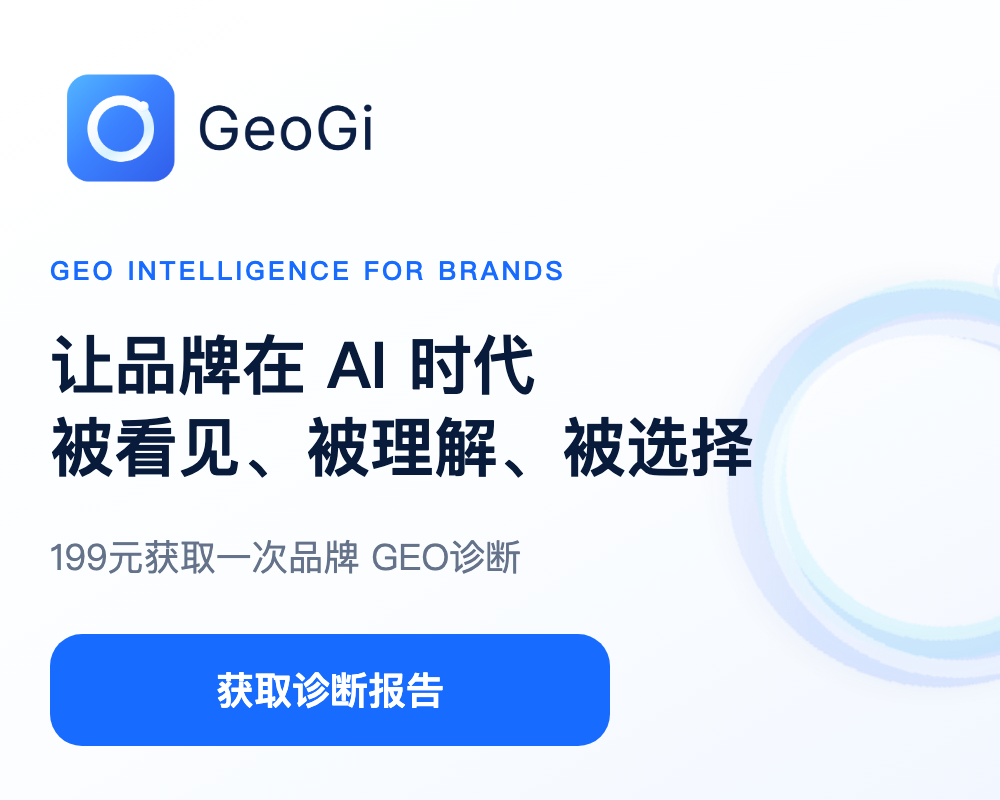
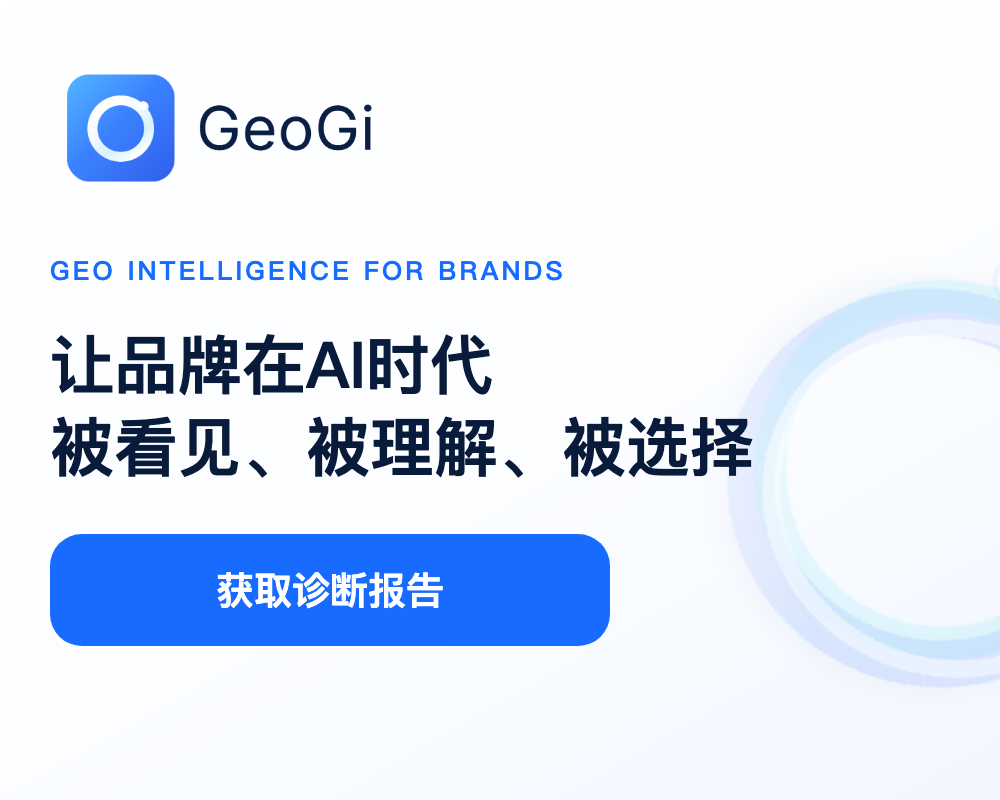
fix(wechat): use brand slogan in public share cards

Changed region(s): [[0.031, 0.6562, 0.62, 0.9375], [0.31, 0.4062, 0.558, 0.5]]

diff --git a/server/tests/referral_source_no_voucher_regression.js b/server/tests/referral_source_no_voucher_regression.js
@@ -61,6 +61,7 @@ async function run() {
   const request = require('../../utils/request');
   const originalGet = request.get;
   const { HOME_SHARE_TITLE, HOME_SHARE_IMAGE } = require('../../config/share');
+  assert.strictEqual(HOME_SHARE_TITLE, '让品牌在AI时代被看见、被理解、被选择');
   function assertHomePreview(share) {
     assert.strictEqual(share.title, HOME_SHARE_TITLE, 'internal source names must not become public share titles');
     assert.strictEqual(share.imageUrl, HOME_SHARE_IMAGE, 'sharing Mine must use the public home cover');
@@ -140,6 +141,7 @@ async function run() {
       '/pages/index/index?src=personal-card-token');
     assertHomePreview(home.onShareAppMessage.call(context));
     assert.strictEqual(home.onShareTimeline.call(context).imageUrl, HOME_SHARE_IMAGE);
+    assert.strictEqual(home.onShareTimeline.call(context).title, HOME_SHARE_TITLE);
 
     dashboard = {
       ok: true,
@@ -170,6 +172,8 @@ async function run() {
 
     delete require.cache[require.resolve('../../pages/services/services.js')];
     require('../../pages/services/services.js');
+    assertHomePreview(page.onShareAppMessage.call({ data: { referralShareToken: 'personal-card-token' } }));
+    assert.strictEqual(page.onShareTimeline.call({ data: {} }).title, HOME_SHARE_TITLE);
     assert.strictEqual(page.onShareAppMessage.call({ data: { referralShareToken: 'personal-card-token' } }).path,
       '/pages/services/services?from=share&src=personal-card-token');
 

diff --git a/pages/services/services.js b/pages/services/services.js
@@ -1,3 +1,4 @@
+const { HOME_SHARE_TITLE, HOME_SHARE_IMAGE } = require('../../config/share');
 const { loadReferralShareContext, withSourceQuery } = require('../../utils/referral-share');
 
 Page({
@@ -37,14 +38,16 @@ Page({
 
   onShareAppMessage() {
     return {
-      title: 'GeoGi｜199 元品牌 GEO 诊断报告',
+      title: HOME_SHARE_TITLE,
+      imageUrl: HOME_SHARE_IMAGE,
       path: '/pages/services/services?' + withSourceQuery('from=share', this.data.referralShareToken)
     };
   },
 
   onShareTimeline() {
     return {
-      title: 'GeoGi｜199 元品牌 GEO 诊断报告',
+      title: HOME_SHARE_TITLE,
+      imageUrl: HOME_SHARE_IMAGE,
       query: withSourceQuery('from=timeline', this.data.referralShareToken)
     };
   }

diff --git a/pages/index/index.js b/pages/index/index.js
@@ -1,4 +1,4 @@
-const { homeShare, HOME_SHARE_IMAGE } = require('../../config/share');
+const { homeShare, HOME_SHARE_TITLE, HOME_SHARE_IMAGE } = require('../../config/share');
 const { platforms } = require('../../config/platforms');
 const { assets } = require('../../config/assets');
 const { loadReferralShareContext, withSourceQuery } = require('../../utils/referral-share');
@@ -86,7 +86,7 @@ Page({
 
     const sourceToken = String(this.data.referralShareToken || '');
     return {
-      title: 'GeoGi｜让品牌在 AI 时代被看见、被理解、被选择',
+      title: HOME_SHARE_TITLE,
       imageUrl: HOME_SHARE_IMAGE,
       query: withSourceQuery('', sourceToken)
     };

diff --git a/config/share.js b/config/share.js
@@ -1,5 +1,5 @@
 // Public share presentation is independent of internal referral source names.
-const HOME_SHARE_TITLE = 'GeoGi｜199 元品牌 GEO 诊断报告';
+const HOME_SHARE_TITLE = '让品牌在AI时代被看见、被理解、被选择';
 const HOME_SHARE_IMAGE = '/assets/share/home-cover.png';
 
 function homeShare(sourceToken = '') {
